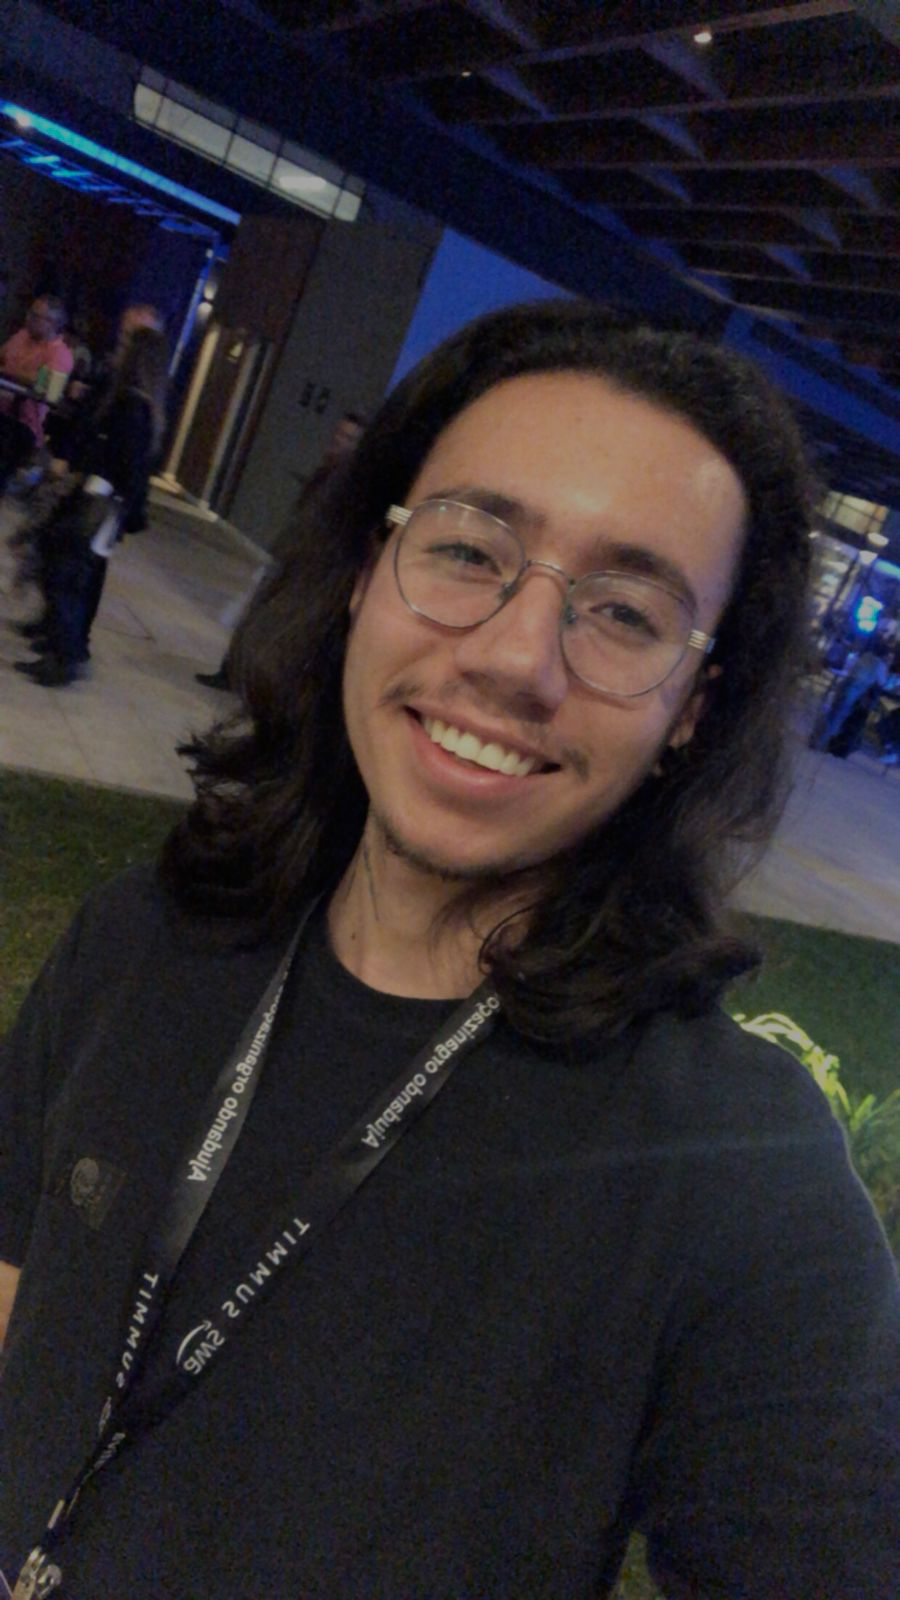
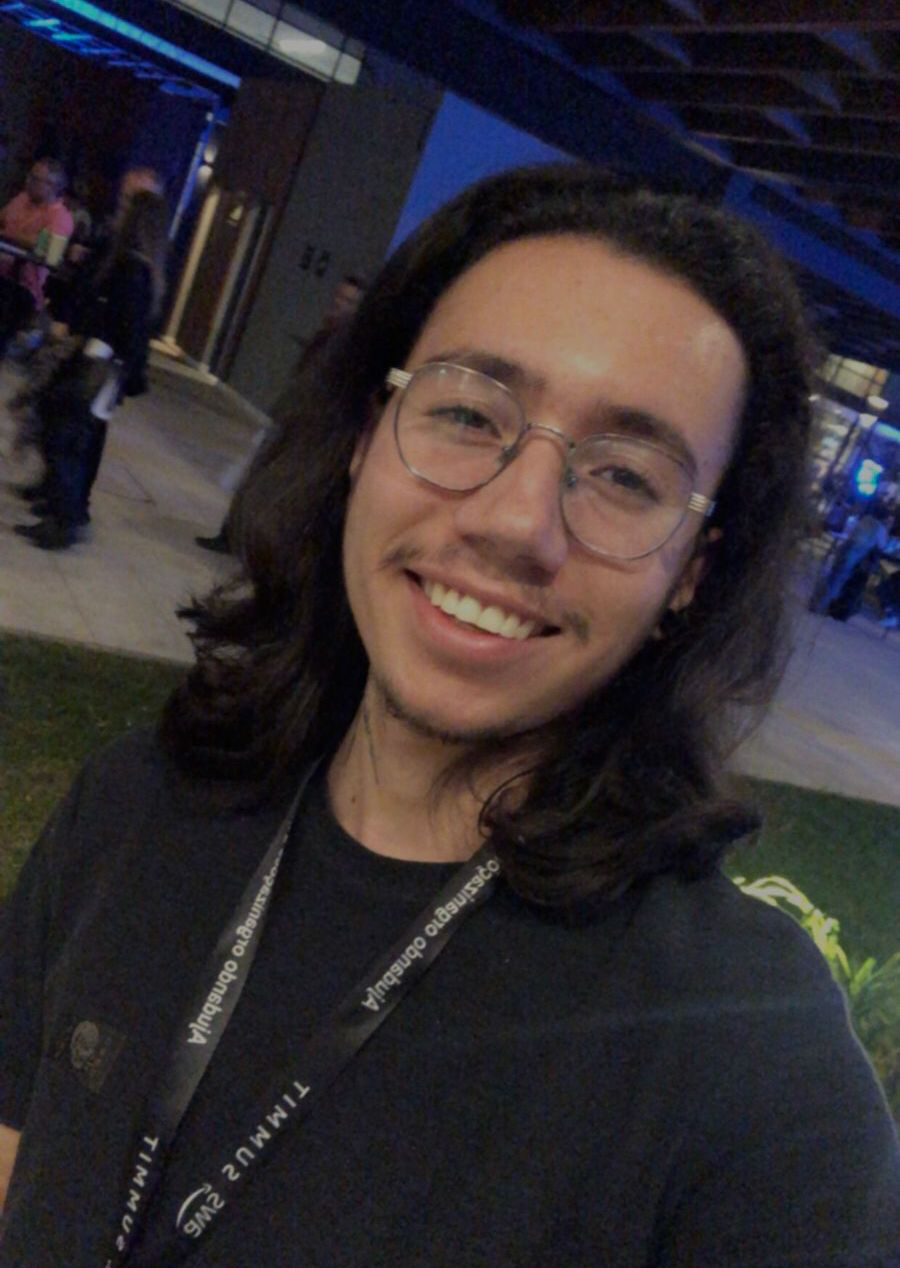
new profile update, fix size image

diff --git a/src/components/About.jsx b/src/components/About.jsx
@@ -13,7 +13,7 @@ const About = () => {
                 transition={{duration: 0.5}}
                 className="w-full lg:w-1/2 lg:p-8">
                     <div className="flex items-center justify-center">
-                        <img className="rounded-2xl" src={aboutImg} alt="Tiago Gabriel" />
+                        <img className="rounded-2xl lg:w-1/2" src={aboutImg} alt="Tiago Gabriel" />
                     </div>
             </motion.div>
             <motion.div
